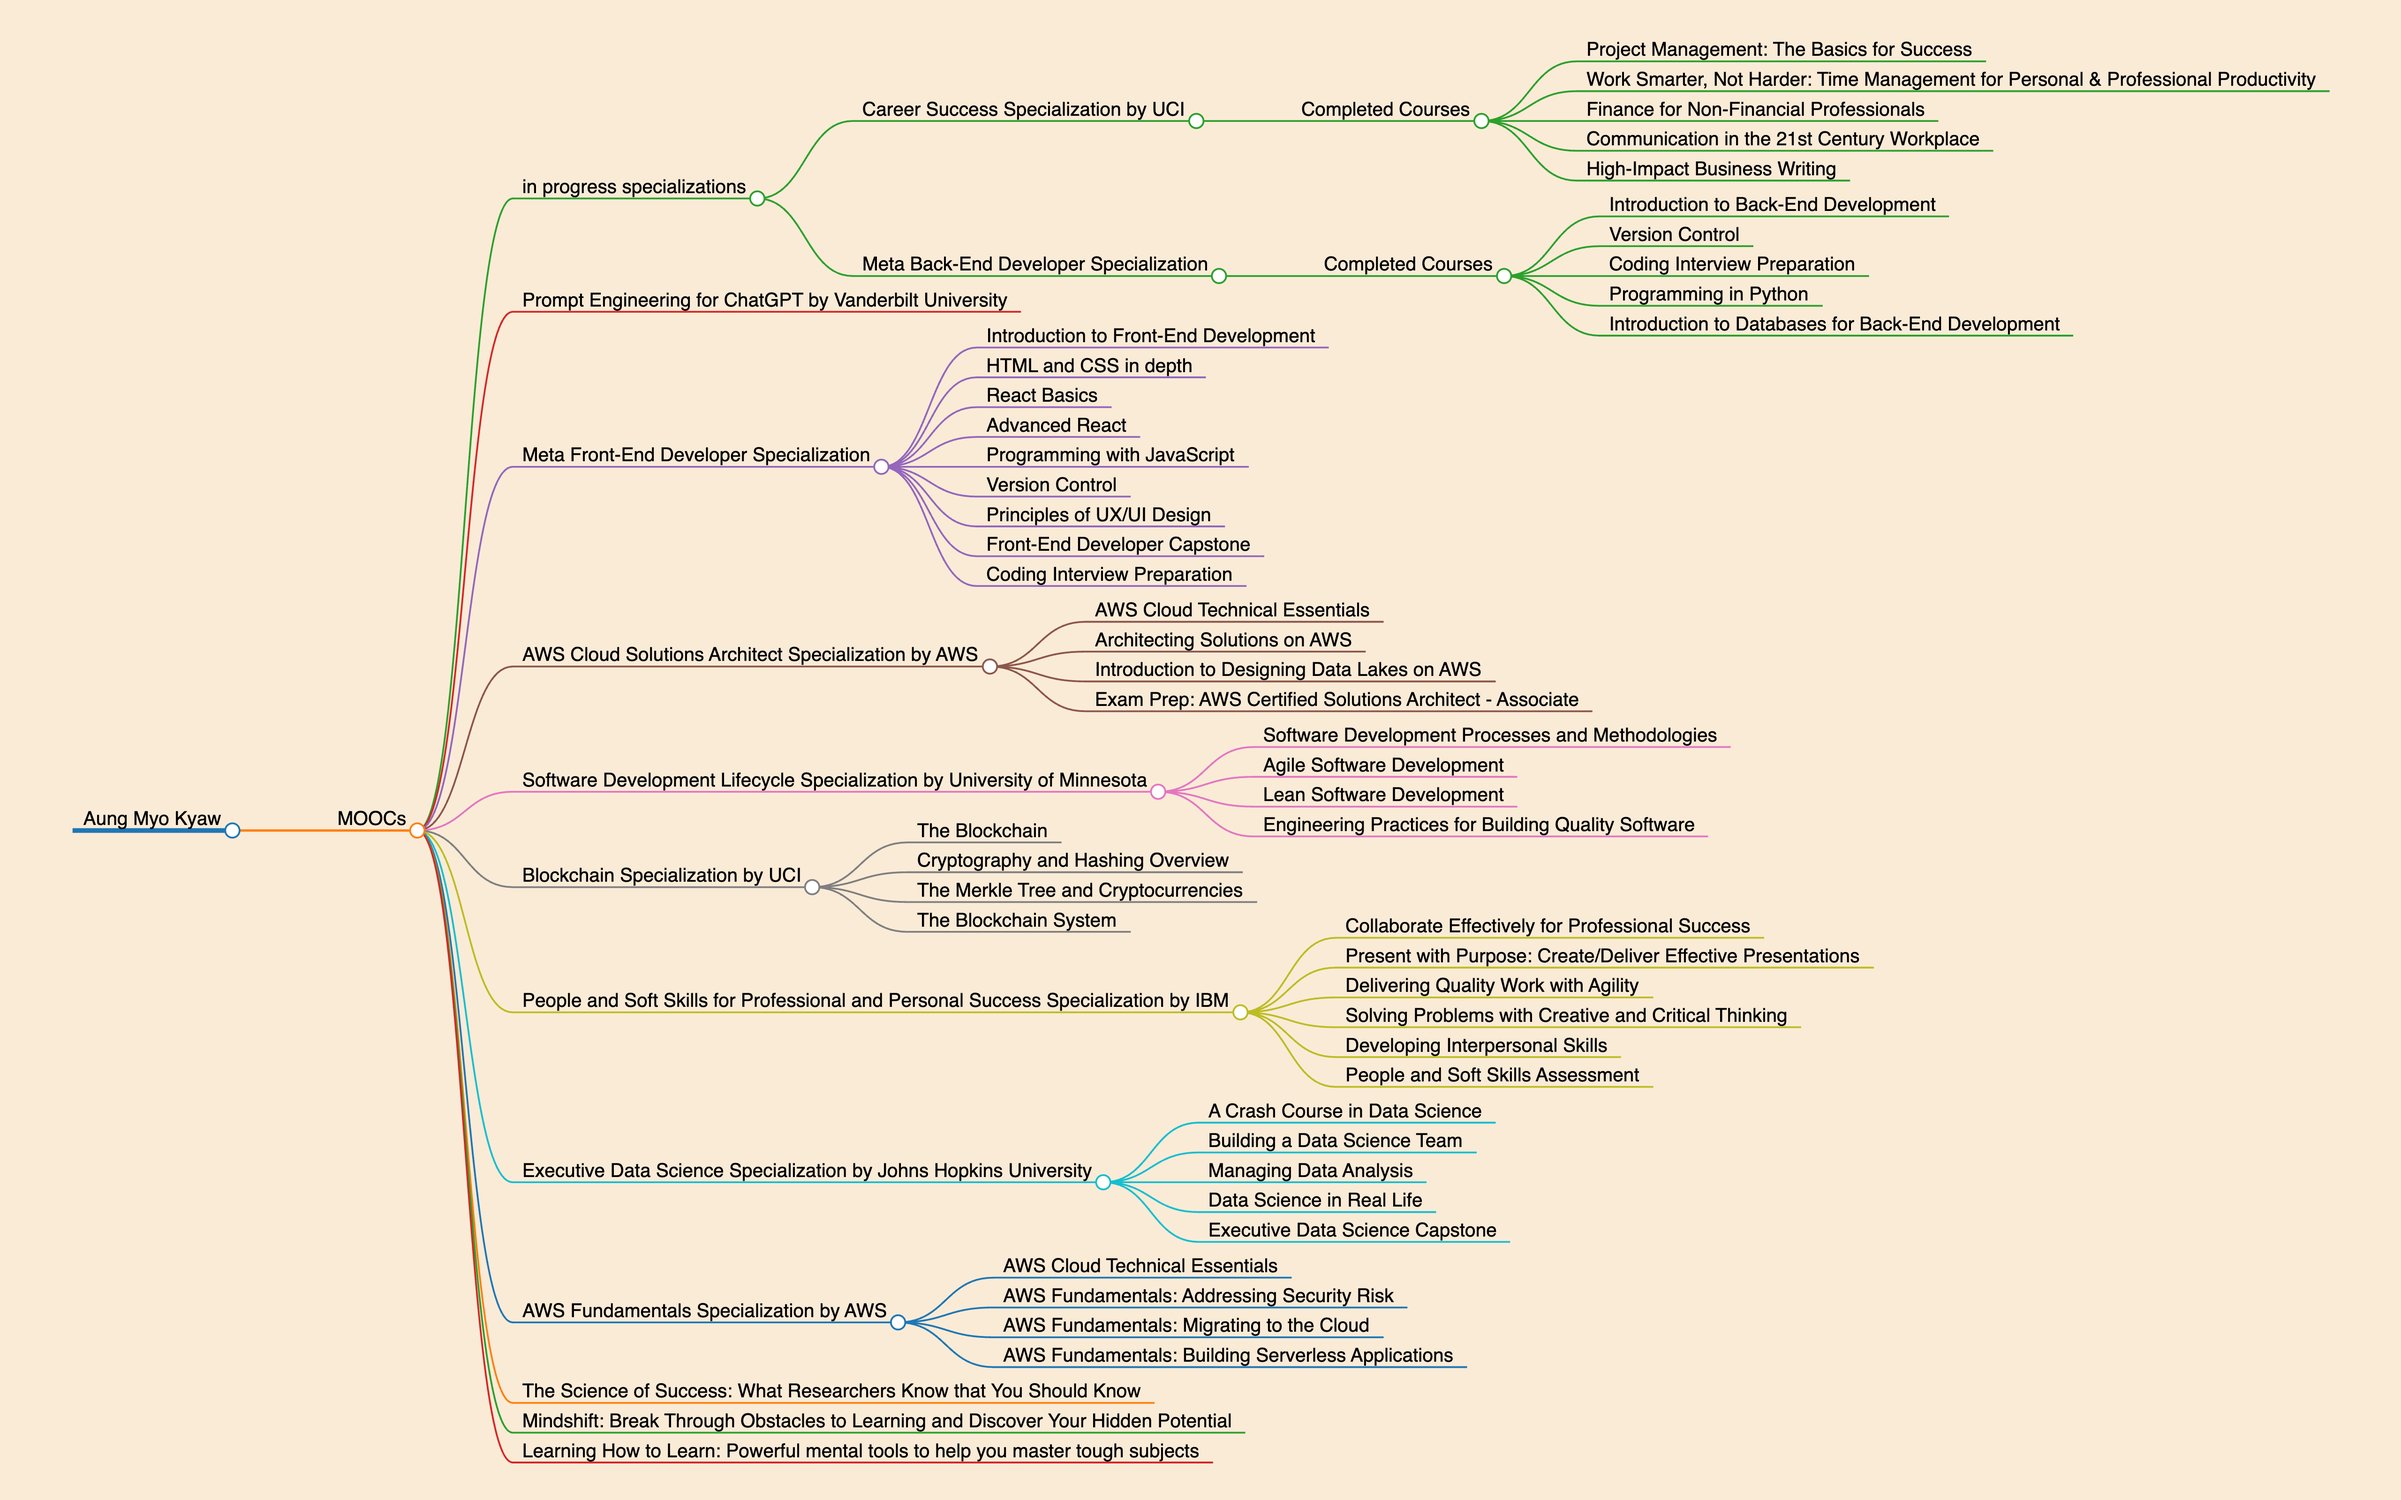
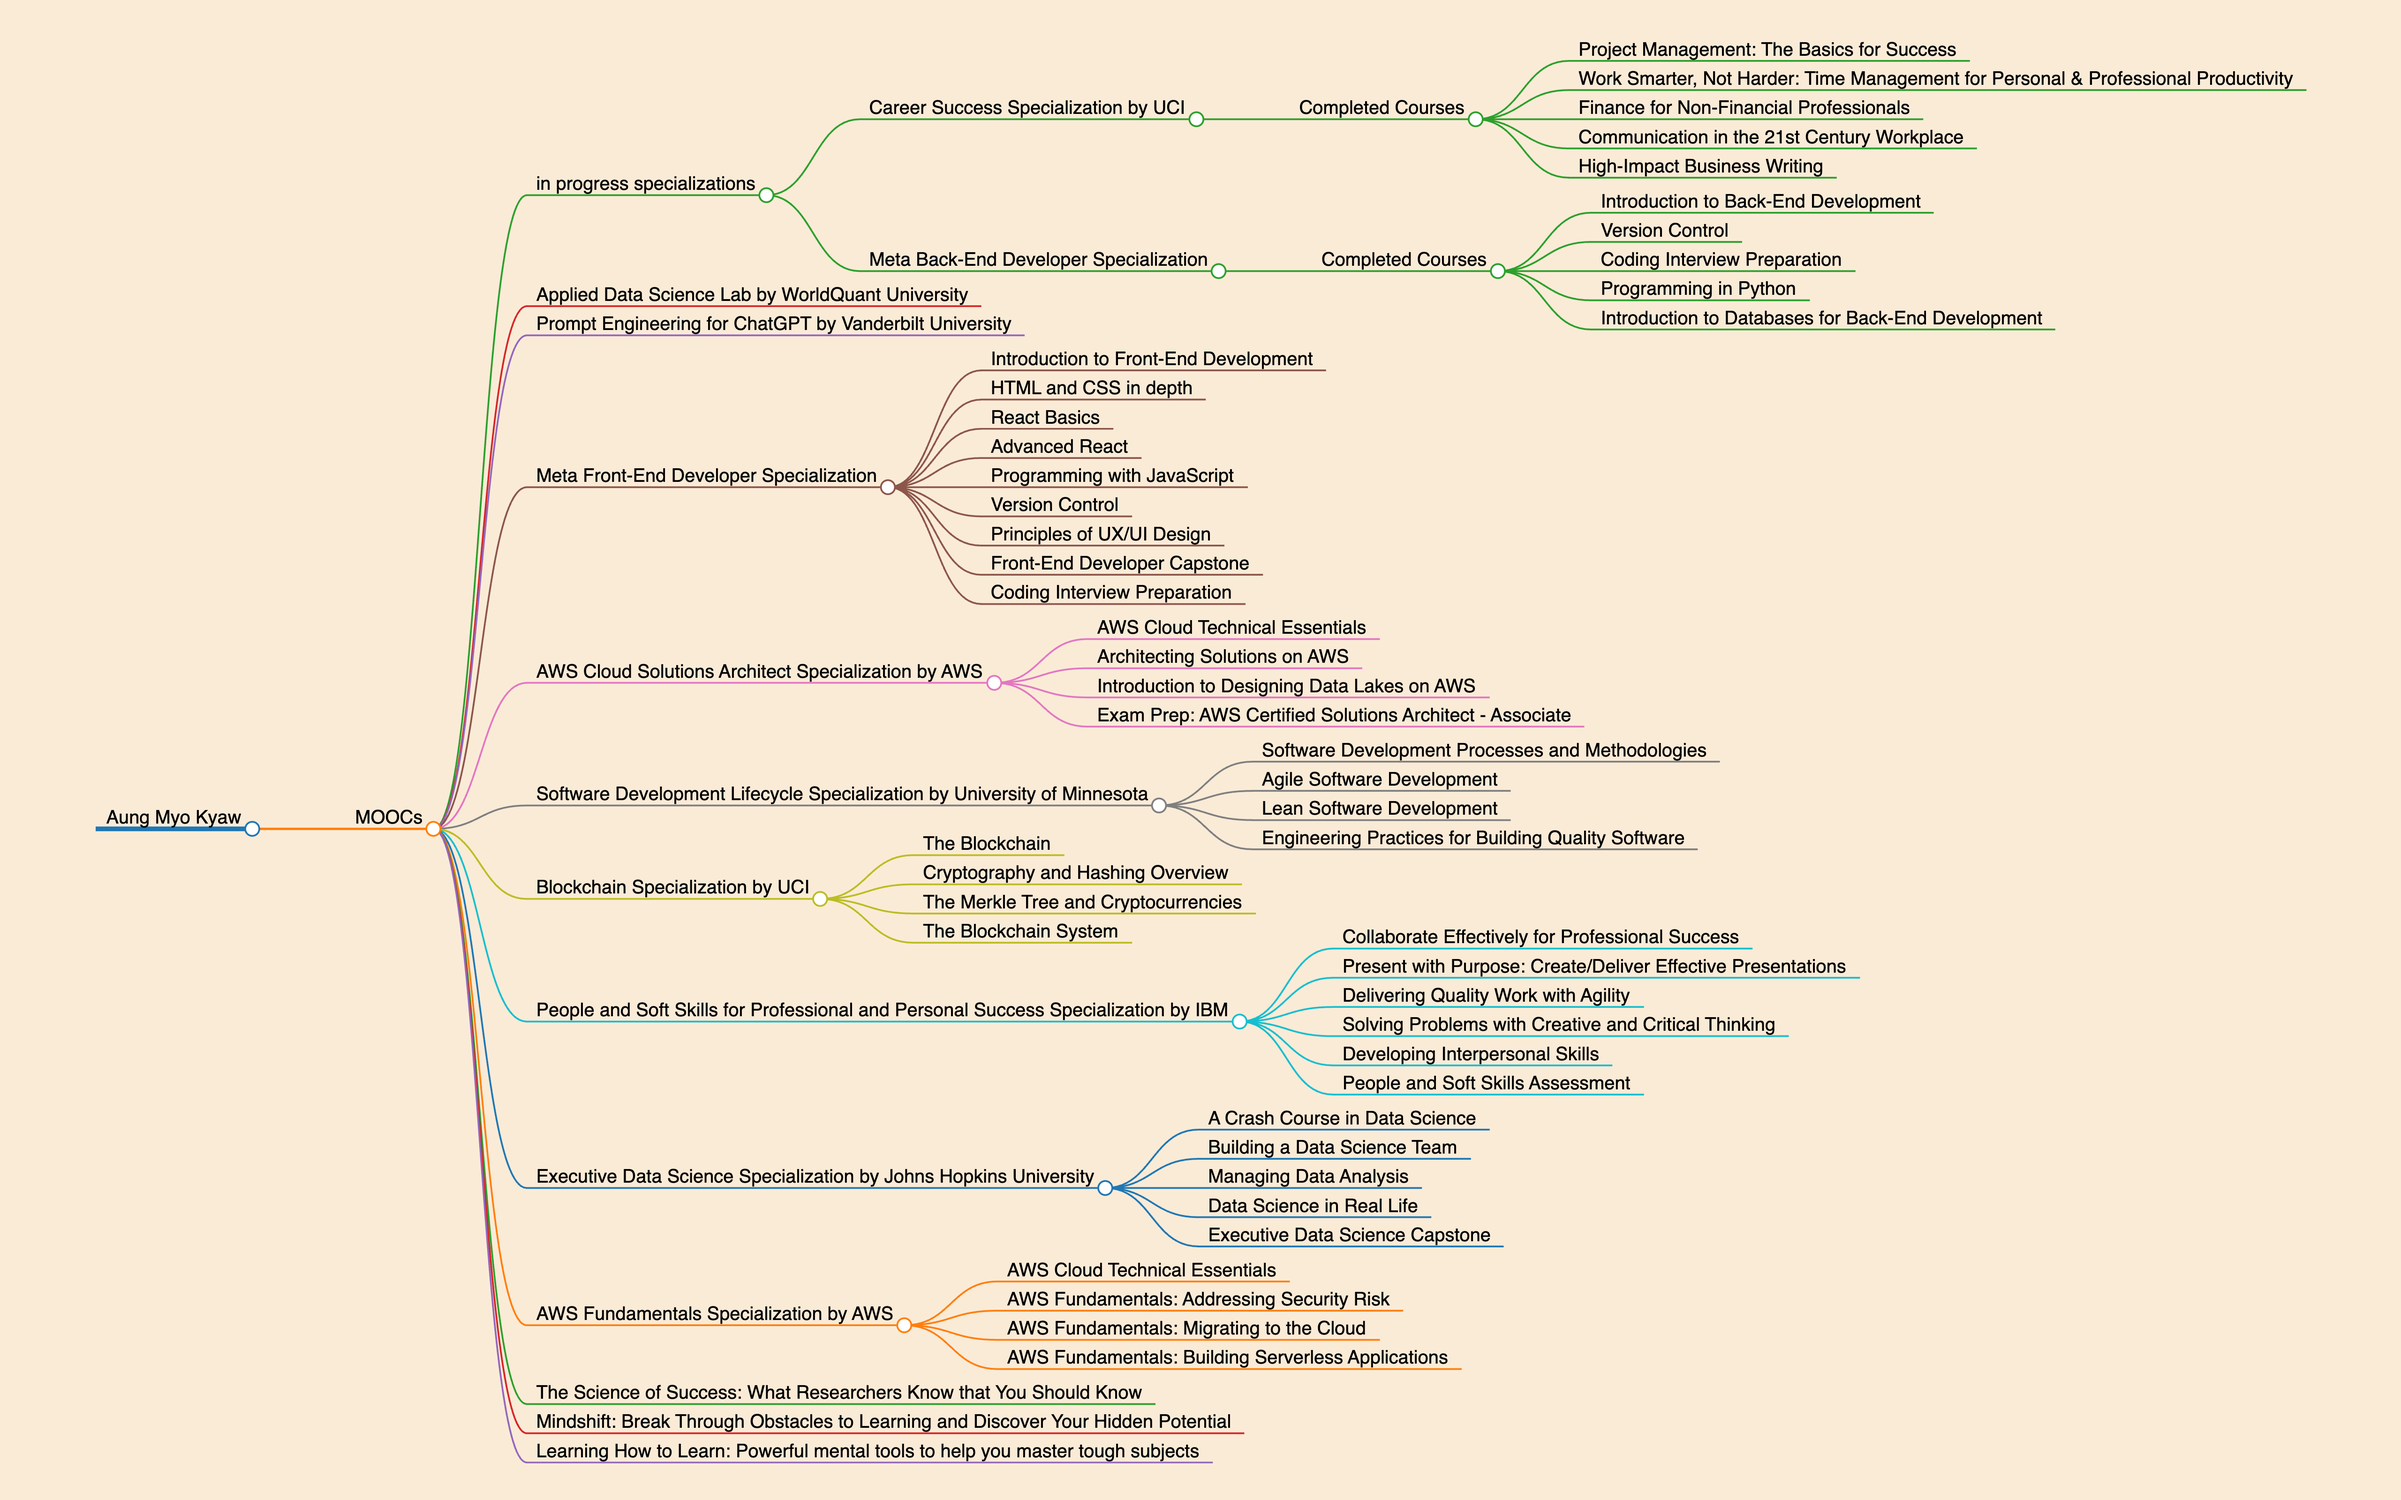
feat: update

Changed region(s): [[0.0312, 0.0312, 0.9688, 1.0], [0.2188, 0.0938, 0.3438, 0.1562], [0.3438, 0.0625, 0.5, 0.0938]]

diff --git a/README.md b/README.md
@@ -47,6 +47,8 @@ markmap:
 
 ---
 
+### [Applied Data Science Lab by WorldQuant University](https://www.credly.com/badges/72d4d407-f65d-4df9-8cc7-156aeb74bfbb)
+
 ### [Prompt Engineering for ChatGPT by Vanderbilt University](https://www.coursera.org/account/accomplishments/certificate/TWXADA5XBUQR)
 
 ### [Meta Front-End Developer Specialization](https://www.coursera.org/account/accomplishments/specialization/certificate/X5EVPVJSCPFH)
